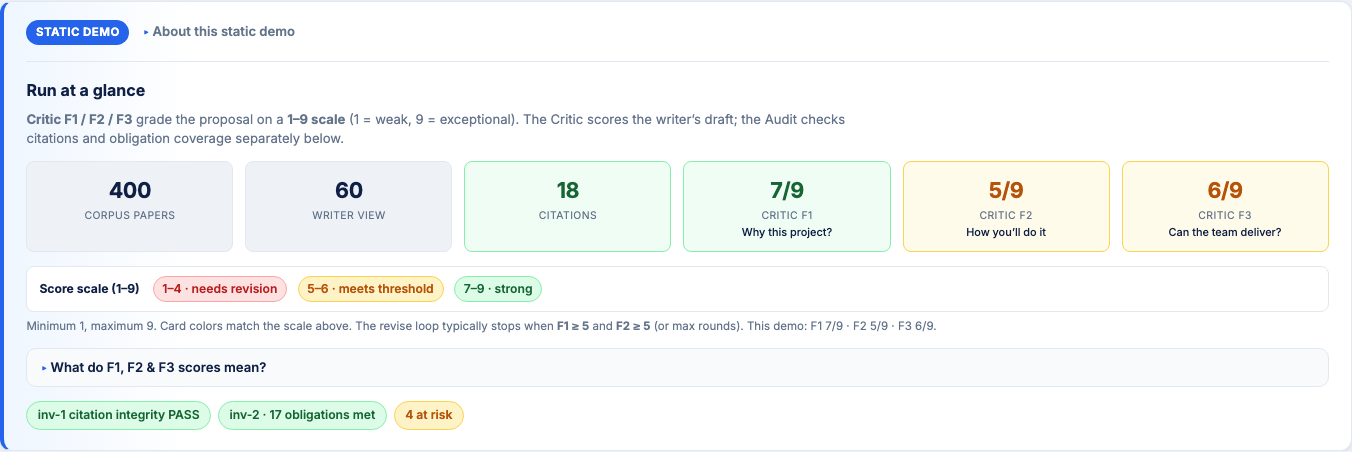
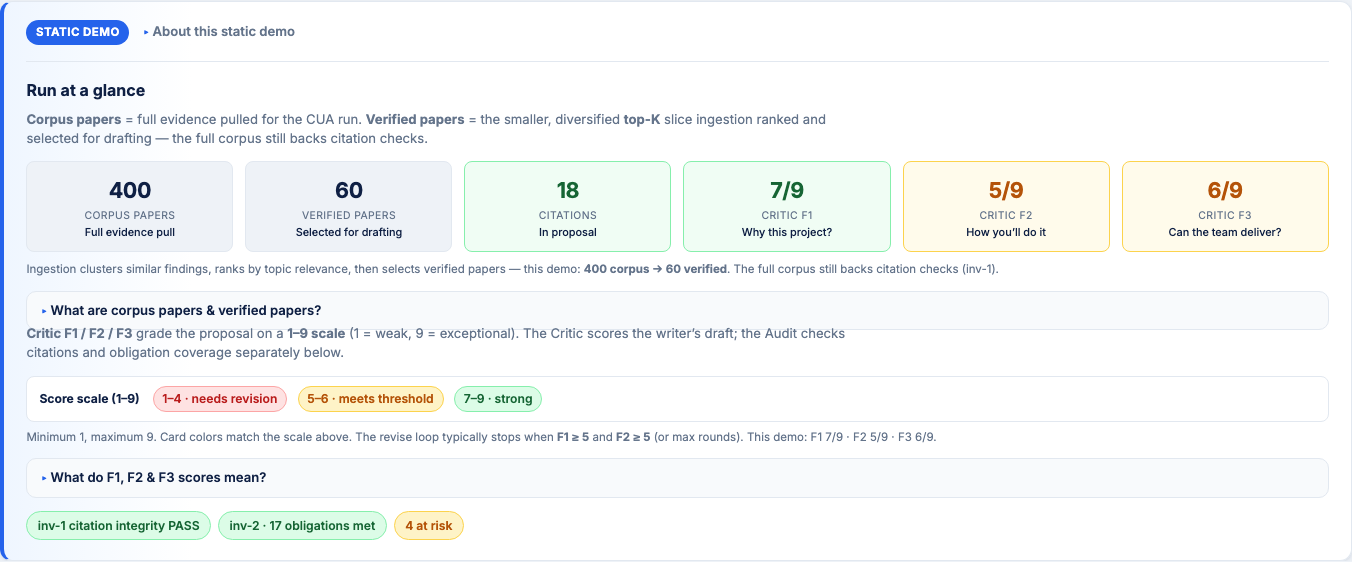
Clarify Tab 3 corpus vs verified papers in UI and docs.
Rename the writer-view KPI to Verified papers, add expandable guidance and API cross-links, and refresh dashboard screenshots.

diff --git a/neurodiscover/frontend/index.html b/neurodiscover/frontend/index.html
@@ -329,12 +329,19 @@
       padding: 0.1rem 0.35rem;
       border-radius: 4px;
     }
-    .cua-score-intro {
+    .cua-score-intro,
+    .cua-corpus-intro {
       font-size: 0.82rem;
       color: var(--muted);
       margin: -0.35rem 0 0.85rem;
       line-height: 1.45;
       max-width: 52rem;
+    }
+    .cua-corpus-note {
+      font-size: 0.72rem;
+      color: var(--muted);
+      margin: 0.55rem 0 0.85rem;
+      line-height: 1.4;
     }
     .cua-kpi-row {
       display: grid;
@@ -1655,18 +1662,22 @@
           <span class="cua-static-badge">Static demo</span>
           <details class="cua-about-wrap">
             <summary>About this static demo</summary>
-            <p class="cua-hero-desc">Pre-rendered <code>graded6</code> sample — 400-paper corpus, 60-paper writer view. Fixed NIH showcase; not tied to Steps 1–2.</p>
+            <p class="cua-hero-desc">Pre-rendered <code>graded6</code> sample — 400-paper corpus, 60 verified papers. Fixed NIH showcase; not tied to Steps 1–2.</p>
           </details>
         </div>
         <h2>Run at a glance</h2>
-        <p class="cua-score-intro">
-          <strong>Critic F1 / F2 / F3</strong> grade the proposal on a <strong>1–9 scale</strong> (1 = weak, 9 = exceptional).
-          The Critic scores the writer’s draft; the Audit checks citations and obligation coverage separately below.
+        <p class="cua-corpus-intro">
+          <strong>Corpus papers</strong> = full evidence pulled for the CUA run.
+          <strong>Verified papers</strong> = the smaller, diversified <strong>top-K</strong> slice ingestion ranked and selected for drafting — the full corpus still backs citation checks.
         </p>
         <div class="cua-kpi-row">
-          <div class="cua-kpi"><div class="val" id="cuaKpiCorpus">—</div><div class="lbl">Corpus papers</div></div>
-          <div class="cua-kpi"><div class="val" id="cuaKpiView">—</div><div class="lbl">Writer view</div></div>
-          <div class="cua-kpi"><div class="val" id="cuaKpiCites">—</div><div class="lbl">Citations</div></div>
+          <div class="cua-kpi" title="All papers available for citation integrity (inv-1)">
+            <div class="val" id="cuaKpiCorpus">—</div><div class="lbl">Corpus papers</div><div class="cua-kpi-sub">Full evidence pull</div>
+          </div>
+          <div class="cua-kpi" title="Top-K after ingestion clustering + relevance rank">
+            <div class="val" id="cuaKpiView">—</div><div class="lbl">Verified papers</div><div class="cua-kpi-sub">Selected for drafting</div>
+          </div>
+          <div class="cua-kpi"><div class="val" id="cuaKpiCites">—</div><div class="lbl">Citations</div><div class="cua-kpi-sub">In proposal</div></div>
           <div class="cua-kpi" title="Significance, gap, hypothesis, innovation">
             <div class="val" id="cuaKpiF1">—</div><div class="lbl">Critic F1</div><div class="cua-kpi-sub">Why this project?</div>
           </div>
@@ -1677,6 +1688,28 @@
             <div class="val" id="cuaKpiF3">—</div><div class="lbl">Critic F3</div><div class="cua-kpi-sub">Can the team deliver?</div>
           </div>
         </div>
+        <p class="cua-corpus-note" id="cuaCorpusNote">Ingestion clusters similar findings, ranks by topic relevance, then selects verified papers for drafting — without removing papers from the citation gate.</p>
+        <details class="cua-score-guide">
+          <summary>What are corpus papers &amp; verified papers?</summary>
+          <div class="cua-score-grid">
+            <div class="cua-score-item">
+              <strong>Corpus papers</strong>
+              <span>The full set of literature/grant rows CUA ingested from the database for this run (e.g. 400 in <code>graded6</code>). Every cited ID must exist here — the citation gate (inv-1) checks against the full corpus, not just the verified papers.</span>
+            </div>
+            <div class="cua-score-item">
+              <strong>Verified papers</strong>
+              <span>Ingestion’s <code>top_k</code> representatives — clustered by similar <code>key_finding</code>, ranked for relevance, diversified so one finding doesn’t dominate. The Synthesizer and revisers draft from this verified slice (e.g. 60 papers) instead of all 400 undifferentiated rows.</span>
+            </div>
+            <div class="cua-score-item">
+              <strong>Why two numbers?</strong>
+              <span>ID-preserving design: narrowing what drafters <em>read</em> keeps prompts tractable; keeping the full corpus for grounding keeps citations honest. Papers outside the verified set can still feed the F2 Rigor Booster.</span>
+            </div>
+          </div>
+        </details>
+        <p class="cua-score-intro">
+          <strong>Critic F1 / F2 / F3</strong> grade the proposal on a <strong>1–9 scale</strong> (1 = weak, 9 = exceptional).
+          The Critic scores the writer’s draft; the Audit checks citations and obligation coverage separately below.
+        </p>
         <div class="cua-score-scale" aria-label="Critic score scale 1 to 9">
           <span class="cua-scale-label">Score scale (1–9)</span>
           <span class="cua-scale-chip risk">1–4 · needs revision</span>
@@ -4841,9 +4874,18 @@ python -m cua.nih.run_db \
         unavail.classList.add('hidden');
         main.classList.remove('hidden');
         kpis.classList.remove('hidden');
-        document.getElementById('cuaKpiCorpus').textContent = d.ingestion?.corpus_n ?? '—';
-        document.getElementById('cuaKpiView').textContent = d.ingestion?.top_k ?? '—';
+        const corpusN = d.ingestion?.corpus_n;
+        const topK = d.ingestion?.top_k;
+        document.getElementById('cuaKpiCorpus').textContent = corpusN ?? '—';
+        document.getElementById('cuaKpiView').textContent = topK ?? '—';
         document.getElementById('cuaKpiCites').textContent = d.audit?.citations ?? '—';
+        const corpusNote = document.getElementById('cuaCorpusNote');
+        if (corpusNote && corpusN != null && topK != null) {
+          corpusNote.innerHTML =
+            'Ingestion clusters similar findings, ranks by topic relevance, then selects verified papers — '
+            + `this demo: <strong>${corpusN} corpus → ${topK} verified</strong>. `
+            + 'The full corpus still backs citation checks (inv-1).';
+        }
         const criticScores = d.audit?.scores || {};
         setCuaCriticScore('cuaKpiF1', criticScores.F1);
         setCuaCriticScore('cuaKpiF2', criticScores.F2);

diff --git a/docs/dashboard.md b/docs/dashboard.md
@@ -144,9 +144,10 @@ Step 3 is **not run-scoped** — it always shows bundled `graded6`, independent 
 
 | Area | What it is |
 |------|------------|
-| **Static demo** badge + About | Fixed `graded6` sample (400-paper corpus → 60-paper writer view) |
+| **Static demo** badge + About | Fixed `graded6` sample (400-paper corpus → 60 verified papers) |
+| **Corpus vs verified papers** | Intro + expandable **What are corpus papers & verified papers?** — see [below](#corpus-vs-verified-papers) |
 | **F1 / F2 / F3 guide** | Always-visible intro + **1–9 score scale** (1–4 needs revision · 5–6 meets threshold · 7–9 strong); KPIs show `n/9`; revise loop typically stops at F1/F2 ≥ 5; expandable cards explain each dimension |
-| **Run at a glance** | KPIs: corpus, writer view, citations, **Critic F1/F2/F3** (with plain-language subtitles), expandable **What do F1, F2 & F3 mean?**, audit status chips |
+| **Run at a glance** | KPIs: **corpus** (full pull) · **verified papers** (selected for drafting) · citations · **Critic F1/F2/F3**; expandable guides for corpus and F-scores; audit status chips |
 | **Jump to** | **Proposal** scrolls to NIH text; **Supporting details** opens the collapsed block |
 | **Run a live grant proposal (CLI)** | Collapsed `python -m cua.nih.run_db` instructions (writes local files only) |
 
@@ -182,6 +183,17 @@ An NIH grant is a **structured argument** scored on a rubric. Before drafting, t
 | **X** | Honesty rules | Every cite must exist in corpus; claims cannot exceed evidence grade |
 
 Writers satisfy the contract; the **Critic** scores against it; the **Audit** reports satisfied vs at-risk obligations.
+
+##### Corpus vs verified papers
+
+Tab 3 **Run at a glance** shows two ingestion counts from `GET /api/cua/demo` → `ingestion.corpus_n` and `ingestion.top_k`:
+
+| KPI | Meaning | `graded6` demo |
+|-----|---------|----------------|
+| **Corpus papers** | Full evidence set CUA pulled from the database for this run — the citation gate (inv-1) checks every cited ID against this full set | **400** |
+| **Verified papers** | Ingestion’s **`top_k`** — clustered by similar `key_finding`, ranked for topic relevance, diversified (`per_cluster_cap`) so one finding doesn’t dominate. The **Synthesizer and revisers draft from this verified slice only** | **60** |
+
+**ID-preserving:** clustering narrows what drafters *read*; it does **not** delete sources from the corpus. Papers outside the verified set can still feed the **F2 Rigor Booster**. Expand **Ingestion** inside **Pipeline trace & audit** for the full funnel audit.
 
 ##### Critic score scale (F1 / F2 / F3)
 

diff --git a/AGENTS.md b/AGENTS.md
@@ -63,7 +63,7 @@ make dashboard
 # → launcher prints Open: URL (UI :8080/?api=... ; Ctrl+C to stop)
 ```
 
-Same as `python3 cli.py dashboard` or `./dashboard`. Opens the browser automatically (`--no-browser` to skip). UI has three tabs: **Step 1** configure & run (live stepper on sidebar); **Step 2** discovery results (three output panels + collapsed **Audit & provenance**); **Step 3** static grant proposal (`graded6`, proposal expanded at top + single **Pipeline trace & audit** collapse, not run-scoped).
+Same as `python3 cli.py dashboard` or `./dashboard`. Opens the browser automatically (`--no-browser` to skip). UI has three tabs: **Step 1** configure & run (live stepper on sidebar); **Step 2** discovery results (three output panels + collapsed **Audit & provenance**); **Step 3** static grant proposal (`graded6`, corpus vs verified-papers KPIs, proposal expanded at top + single **Pipeline trace & audit** collapse, not run-scoped).
 
 - **Local:** leave `SUPABASE_DATABASE_URL` unset — builds seed DB, runs demo (`max_papers=10`).
 - **Team Supabase:** set `SUPABASE_DATABASE_URL` — skips `build`, runs **agents-only** (agents 2–6 on all existing evidence).

diff --git a/docs/output.md b/docs/output.md
@@ -36,7 +36,9 @@ Layout top-to-bottom:
 ![Step 3 — Grant proposal tab](/assets/images/dashboard/step3-grant-proposal.png)
 {: .doc-screenshot }
 
-*Step 3 — hero KPIs, audit status chips, Jump to (Proposal + supporting details), NIH proposal expanded at top, one collapsed supporting-details group below, and collapsible live-CLI instructions.*
+*Step 3 — hero KPIs (**corpus papers** = full pull, **verified papers** = top-K slice selected for drafting), audit status chips, Jump to (Proposal + supporting details), NIH proposal expanded at top, one collapsed supporting-details group below, and collapsible live-CLI instructions.*
+
+**Verified papers** is not the full database — it is ingestion’s `top_k` (60 in `graded6`) after clustering and relevance ranking. The full **corpus** (400) still backs citation integrity. See [Dashboard — Corpus vs verified papers](dashboard#corpus-vs-verified-papers).
 
 | Jump to | Layout | Content |
 |---------|--------|---------|

diff --git a/docs/guides.md b/docs/guides.md
@@ -82,7 +82,7 @@ cp .env.example .env
 
 ## CUA — NIH grant proposal (Step 3)
 
-Dashboard **Step 3** shows a **static** bundled demo (`graded6`) with hero KPIs, audit status chips, jump-to nav (Proposal + supporting details), and an inlined report with **The proposal** expanded at the top and all pipeline/audit sections behind one collapsed **Pipeline trace & audit** group. To generate a new proposal from your DB:
+Dashboard **Step 3** shows a **static** bundled demo (`graded6`) with hero KPIs (**corpus papers** = full pull, **verified papers** = top-K slice selected for drafting — see [Dashboard — Corpus vs verified papers](dashboard#corpus-vs-verified-papers)), audit status chips, jump-to nav (Proposal + supporting details), and an inlined report with **The proposal** expanded at the top and all pipeline/audit sections behind one collapsed **Pipeline trace & audit** group. To generate a new proposal from your DB:
 
 ```bash
 cd cua && pip install -e .

diff --git a/docs/workflow/conclusion-update.md b/docs/workflow/conclusion-update.md
@@ -105,7 +105,7 @@ CUA (Conclusion Update Agent) reads the NeuroDiscover blackboard and produces a 
 ### What it does (step by step)
 
 1. **Reads** the shared DB read-only — `evidence`, `subgroups`, `treatment_connections`, `connection_evidence`
-2. **Ingestion** — clusters and ranks papers (e.g. ~400 → top 60 for the writer); full corpus stays available for citation checks
+2. **Ingestion** — clusters by similar `key_finding`, ranks by topic relevance, and selects **verified papers** (`top_k`, e.g. 60) for drafters; the **full corpus** (e.g. 400) stays available for citation checks (inv-1). See [Dashboard — Corpus vs verified papers](../dashboard#corpus-vs-verified-papers).
 3. **Plans** — Blueprint Planner sets NIH rubric obligations (F1/F2/F3)
 4. **Writes** — Synthesizer drafts the argument (best-of-N), Aim Architect structures specific aims
 5. **Grounds** — hard gate: every citation must exist in the corpus

diff --git a/docs/developer-reference/dashboard-api.md b/docs/developer-reference/dashboard-api.md
@@ -130,6 +130,17 @@ confidence = evidence_strength × 0.55 + commercial_potential × 0.45
 | Monitor | 65–79 |
 | Reject | < 65 |
 
+## Ingestion KPIs (Step 3 — grant proposal)
+
+`GET /api/cua/demo` includes `ingestion` from the bundled audit artifacts:
+
+| Field | Meaning |
+|-------|---------|
+| `corpus_n` | Full evidence rows ingested for the run (citation gate referent) |
+| `top_k` | **Verified papers** count — diversified top-K representatives the Synthesizer/revisers read |
+
+Example (`graded6`): `corpus_n: 400`, `top_k: 60`. See [Dashboard — Corpus vs verified papers](../dashboard#corpus-vs-verified-papers).
+
 ## Critic scores (Step 3 — grant proposal)
 
 Static CUA demo KPIs expose **F1**, **F2**, and **F3** from `audit.calibration.internal_scores` (`GET /api/cua/demo`). Each dimension is an integer **1–9** (minimum 1, maximum 9):
